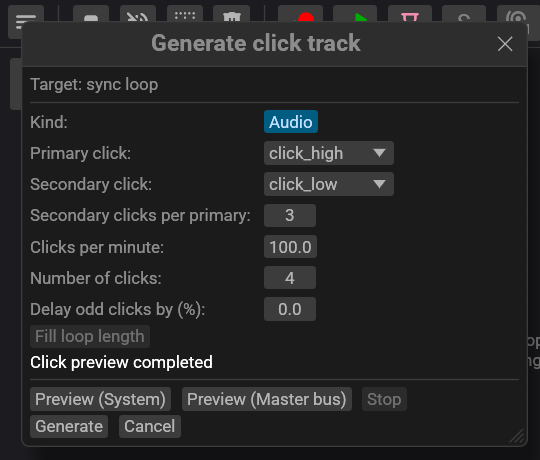
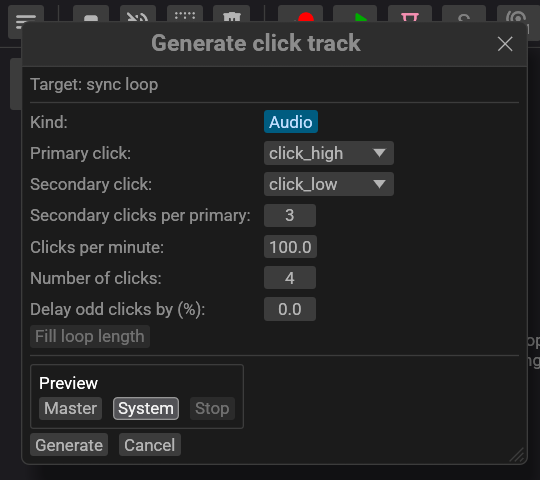
Group click preview controls and hide playback status text

diff --git a/src/rust/shoop_egui/src/click_track_dialog.rs b/src/rust/shoop_egui/src/click_track_dialog.rs
@@ -189,70 +189,64 @@ impl ClickTrackDialog {
                 if let Some(message) = &self.validation_message {
                     ui.colored_label(colors::STRONG_ERROR, message);
                 }
-                if state.click_track.preview_status != ClickTrackPreviewStatus::Idle
-                    && !state.click_track.preview_message.is_empty()
-                {
-                    let color =
-                        if state.click_track.preview_status == ClickTrackPreviewStatus::Failed {
-                            colors::STRONG_ERROR
-                        } else {
-                            colors::FOREGROUND
-                        };
-                    ui.colored_label(color, &state.click_track.preview_message);
-                }
                 ui.separator();
-                ui.horizontal_wrapped(|ui| {
-                    let preview_button = ui
-                        .add_enabled(
-                            validation.is_ok()
-                                && draft.kind == ClickTrackKind::Audio
-                                && self.preview_available,
-                            egui::Button::new("Preview (System)"),
-                        )
-                        .on_disabled_hover_text(if self.preview_available {
-                            "Preview requires valid audio click settings"
-                        } else {
-                            "Audio preview is unavailable on this system"
-                        });
-                    #[cfg(test)]
-                    {
-                        self.preview_rect = Some(preview_button.rect);
-                        self.preview_enabled = preview_button.enabled();
-                    }
-                    if preview_button.clicked() {
-                        preview = Some(crate::ClickTrackPreviewOutput::System);
-                    }
-                    let master = ui
-                        .add_enabled(
-                            validation.is_ok()
-                                && draft.kind == ClickTrackKind::Audio
-                                && state.click_track.master_preview_available,
-                            egui::Button::new("Preview (Master bus)"),
-                        )
-                        .on_disabled_hover_text(if state.click_track.master_preview_available {
-                            "Preview requires valid audio click settings"
-                        } else {
-                            "Master bus preview is unavailable in this runtime"
-                        });
-                    #[cfg(test)]
-                    {
-                        self.master_rect = Some(master.rect);
-                    }
-                    if master.clicked() {
-                        preview = Some(crate::ClickTrackPreviewOutput::MasterBus);
-                    }
-                    let active = matches!(
-                        state.click_track.preview_status,
-                        ClickTrackPreviewStatus::Queued | ClickTrackPreviewStatus::Playing
-                    );
-                    let stop_button = ui.add_enabled(active, egui::Button::new("Stop"));
-                    #[cfg(test)]
-                    {
-                        self.stop_rect = Some(stop_button.rect);
-                    }
-                    if stop_button.clicked() {
-                        stop = true;
-                    }
+                ui.group(|ui| {
+                    ui.strong("Preview");
+                    ui.horizontal_wrapped(|ui| {
+                        let master = ui
+                            .add_enabled(
+                                validation.is_ok()
+                                    && draft.kind == ClickTrackKind::Audio
+                                    && state.click_track.master_preview_available,
+                                egui::Button::new("Master"),
+                            )
+                            .on_disabled_hover_text(
+                                if state.click_track.master_preview_available {
+                                    "Preview requires valid audio click settings"
+                                } else {
+                                    "Master bus preview is unavailable in this runtime"
+                                },
+                            );
+                        #[cfg(test)]
+                        {
+                            self.master_rect = Some(master.rect);
+                        }
+                        if master.clicked() {
+                            preview = Some(crate::ClickTrackPreviewOutput::MasterBus);
+                        }
+                        let preview_button = ui
+                            .add_enabled(
+                                validation.is_ok()
+                                    && draft.kind == ClickTrackKind::Audio
+                                    && self.preview_available,
+                                egui::Button::new("System"),
+                            )
+                            .on_disabled_hover_text(if self.preview_available {
+                                "Preview requires valid audio click settings"
+                            } else {
+                                "Audio preview is unavailable on this system"
+                            });
+                        #[cfg(test)]
+                        {
+                            self.preview_rect = Some(preview_button.rect);
+                            self.preview_enabled = preview_button.enabled();
+                        }
+                        if preview_button.clicked() {
+                            preview = Some(crate::ClickTrackPreviewOutput::System);
+                        }
+                        let active = matches!(
+                            state.click_track.preview_status,
+                            ClickTrackPreviewStatus::Queued | ClickTrackPreviewStatus::Playing
+                        );
+                        let stop_button = ui.add_enabled(active, egui::Button::new("Stop"));
+                        #[cfg(test)]
+                        {
+                            self.stop_rect = Some(stop_button.rect);
+                        }
+                        if stop_button.clicked() {
+                            stop = true;
+                        }
+                    });
                 });
                 ui.horizontal(|ui| {
                     let generate_button =
@@ -647,9 +641,11 @@ mod tests {
             crate::initialize(&context);
             let mut state = state();
             state.click_track.master_preview_available = true;
+            state.click_track.preview_message = "preview state must remain hidden".to_owned();
             let mut dialog = ClickTrackDialog::default();
             dialog.set_preview_available(system_available);
             dialog.open(&state.tracks[0].loops[0], &state.click_track);
+            let painted = std::cell::RefCell::new(Vec::new());
             let frame = |dialog: &mut ClickTrackDialog, state: &AppState, events| {
                 let mut intents = Vec::new();
                 let mut output = context.run_ui(
@@ -665,12 +661,34 @@ mod tests {
                         intents = dialog.show(&context, state);
                     },
                 );
+                fn collect_text(shape: &egui::Shape, text: &mut Vec<String>) {
+                    match shape {
+                        egui::Shape::Text(shape) => text.push(shape.galley.text().to_owned()),
+                        egui::Shape::Vec(shapes) => {
+                            for shape in shapes {
+                                collect_text(shape, text);
+                            }
+                        }
+                        _ => {}
+                    }
+                }
+                let mut text = Vec::new();
+                for shape in &output.shapes {
+                    collect_text(&shape.shape, &mut text);
+                }
+                *painted.borrow_mut() = text;
                 output.textures_delta.clear();
                 intents
             };
             frame(&mut dialog, &state, Vec::new());
             frame(&mut dialog, &state, Vec::new());
             assert_eq!(dialog.preview_enabled, system_available);
+            for label in ["Preview", "Master", "System", "Stop"] {
+                assert!(
+                    painted.borrow().iter().any(|text| text == label),
+                    "missing preview control: {label}"
+                );
+            }
             let click = |dialog: &mut ClickTrackDialog, state: &AppState, pos| {
                 frame(
                     dialog,
@@ -722,6 +740,10 @@ mod tests {
             }
             state.click_track.preview_status = ClickTrackPreviewStatus::Playing;
             frame(&mut dialog, &state, Vec::new());
+            assert!(!painted
+                .borrow()
+                .iter()
+                .any(|text| text == &state.click_track.preview_message));
             let stop = dialog.stop_rect.unwrap().center();
             assert_eq!(
                 click(&mut dialog, &state, stop),

diff --git a/src/rust/shoopdaloop/README.md b/src/rust/shoopdaloop/README.md
@@ -123,9 +123,9 @@ Piano messages enter ordinary track MIDI input processing at frame zero of the n
 
 The main menu saves and loads `.shoop` major-version 1 sessions with session document version 13. Loop context menus import/export exact `.shoop-audio` and `.shoop-midi`, float WAV, and standard MIDI. Audio import requires explicit destination mapping; audio export presents an ordered channel selection. Direct, dry, and wet role labels are preserved, including dry-only, wet-only, mixed, and reordered exports; exact/standard MIDI targets dry MIDI. Different-rate assets require confirmation before deterministic audio/MIDI/timing conversion. Predecessor session/media formats are deliberately unsupported.
 
-Right-click a primitive loop and choose **Generate click track...** to create embedded audio or MIDI click content with primary/secondary sounds, fractional tempo, click count, odd-click delay, and loop-length fitting. Audio preview is non-mutating. Native builds offer **Preview (System)** through Rodio's default system playback device and **Preview (Master bus)** through the app's current audio driver and Master bus. Both buttons are always visible and are independently disabled when unavailable; the CPAL-free build disables System preview. Master previews mix with ongoing playback, also run while loops are stopped, and respect Master effects, gain, balance, mute, and output connections. Dummy/offline mode is treated normally. **Stop**, closing the dialog, starting another preview, loading a session, or switching audio drivers stops the current preview. There is no preview-output preference, and preview buffers are never saved in a session. Hosted browser preview uses the running Web Audio context; explicit offline mode creates a bounded fallback context subject to browser autoplay policy. Generated content persists as ordinary loop media without storing the dialog draft.
+Right-click a primitive loop and choose **Generate click track...** to create embedded audio or MIDI click content with primary/secondary sounds, fractional tempo, click count, odd-click delay, and loop-length fitting. Audio preview is non-mutating. The **Preview** group contains **Master** (the app's current audio driver and Master bus), **System** (Rodio's default system playback device), and **Stop**. The dialog does not display preview-state text. Master and System are independently disabled when unavailable; the CPAL-free build disables System. Stop is enabled while a preview is queued or playing. Master previews mix with ongoing playback, also run while loops are stopped, and respect Master effects, gain, balance, mute, and output connections. Dummy/offline mode is treated normally. **Stop**, closing the dialog, starting another preview, loading a session, or switching audio drivers stops the current preview. There is no preview-output preference, and preview buffers are never saved in a session. Hosted browser preview uses the running Web Audio context; explicit offline mode creates a bounded fallback context subject to browser autoplay policy. Generated content persists as ordinary loop media without storing the dialog draft.
 
-Default build after a System preview:
+Default build with both preview outputs available:
 
 ![Native click preview controls with system output available](../../../docs/images/click-preview-system.png)
 
